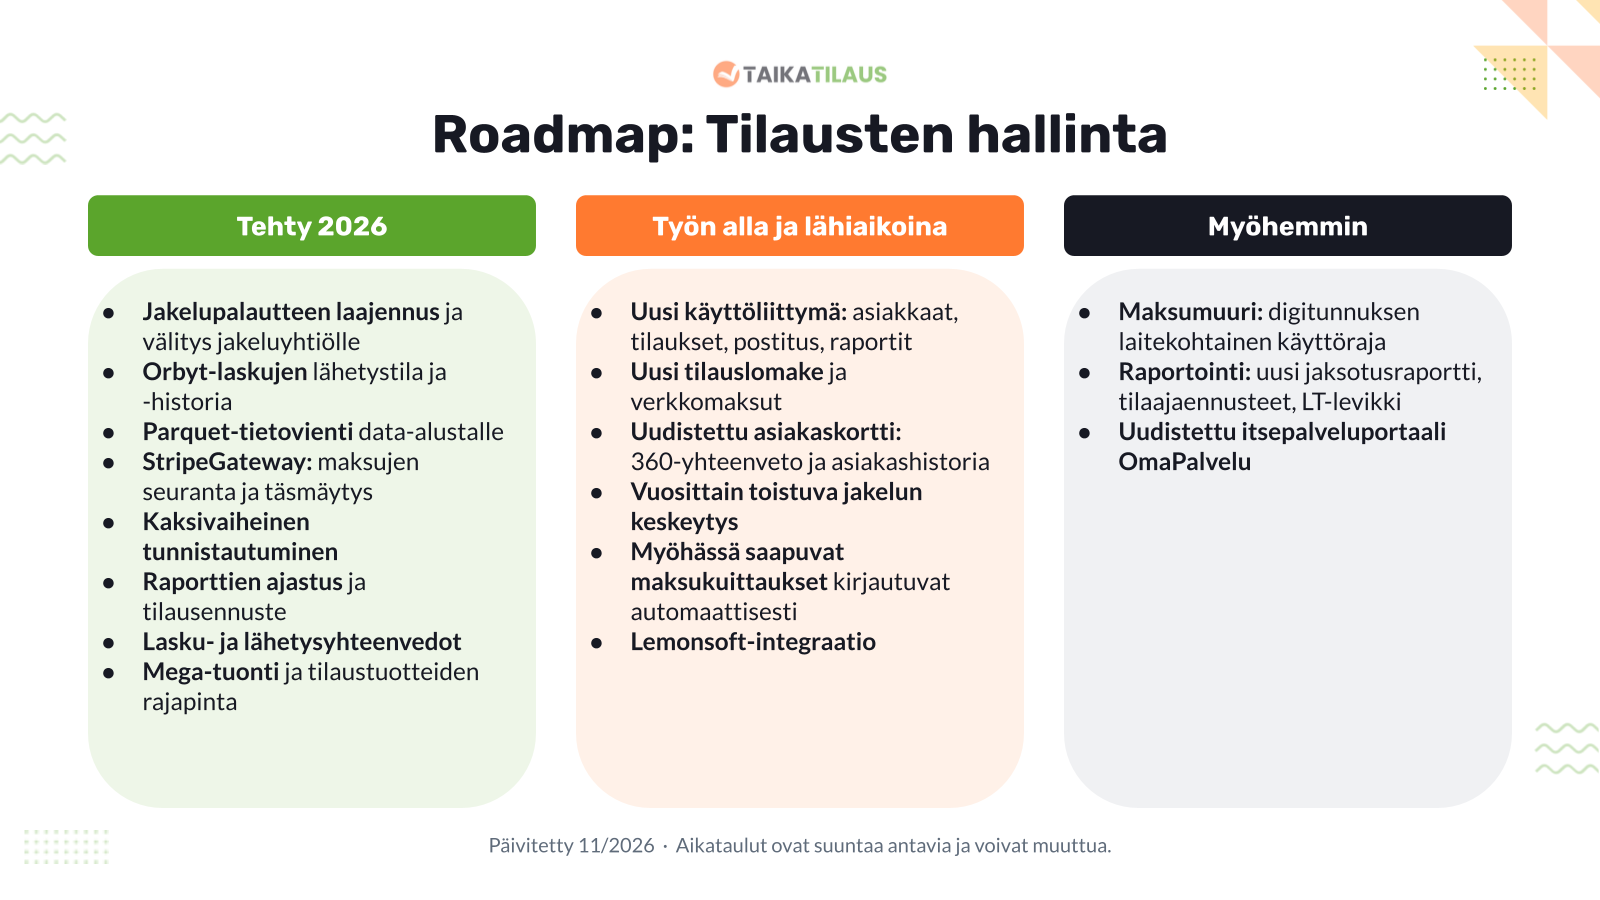
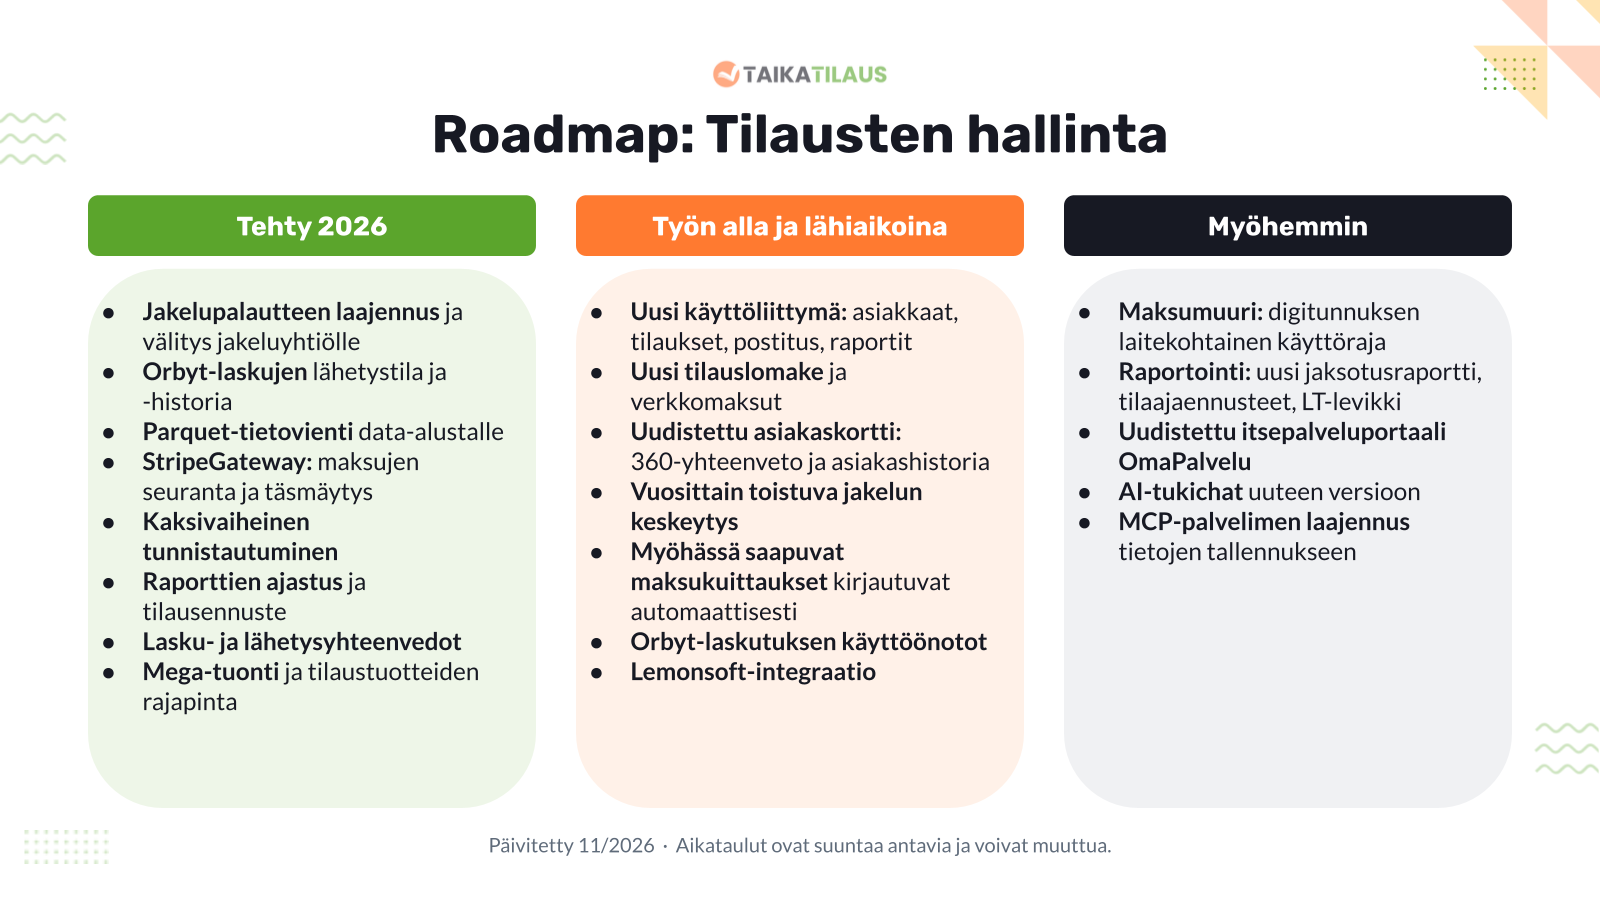
Roadmap: AI-tukichat, MCP-palvelimen laajennus ja Orbyt-käyttöönotot
AI-tukichat ja MCP-palvelimen laajennus tietojen tallennukseen
molempien osioiden Myöhemmin-kohtaan, Orbyt-laskutuksen käyttöönotot
tilausten hallinnan Työn alla -kohtaan. Kuvat päivitetty.

Changed region(s): [[0.6875, 0.5289, 0.875, 0.6222], [0.4062, 0.6844, 0.625, 0.7778]]

diff --git a/docs/versiotiedotteet/roadmap.md b/docs/versiotiedotteet/roadmap.md
@@ -39,6 +39,7 @@ Aikataulut ovat suuntaa antavia ja voivat muuttua. Toteutusjärjestykseen vaikut
 - **Uudistettu asiakaskortti**: asiakkaan 360-yhteenveto ja asiakashistoria.
 - **Vuosittain toistuva jakelun keskeytys** ja tilauksen pidennys keskeytysajalla.
 - **Myöhässä saapuvat verkkomaksujen kuittaukset** kirjautuvat laskulle automaattisesti.
+- **Orbyt-laskutuksen käyttöönotot**.
 - **Lemonsoft-integraatio**: tilaus- ja ilmoituslaskujen siirto Lemonsoftiin, josta laskut lähetetään ja niiden reskontra hoidetaan. Katso [kuvaus](/docs/ohjeet/integraatiot/lemonsoft).
 
 ### Myöhemmin
@@ -46,6 +47,8 @@ Aikataulut ovat suuntaa antavia ja voivat muuttua. Toteutusjärjestykseen vaikut
 - **Maksumuuri**: digitunnuksen laitekohtainen käyttöraja.
 - **Raportointi**: uusi jaksotusraportti, tilaajaennusteet, LT-levikki.
 - **Uudistettu itsepalveluportaali OmaPalvelu**.
+- **AI-tukichat** uuteen versioon.
+- **MCP-palvelimen laajennus** tietojen tallennukseen.
 
 ## Ilmoitusten hallinta
 
@@ -72,5 +75,7 @@ Aikataulut ovat suuntaa antavia ja voivat muuttua. Toteutusjärjestykseen vaikut
 ### Myöhemmin
 
 - **Julkaisukalenterien tuonti** CSV-tiedostosta.
+- **AI-tukichat** uuteen versioon.
+- **MCP-palvelimen laajennus** tietojen tallennukseen.
 
 Toteutuneet uudistukset kuvataan tarkemmin [versiotiedotteissa](/docs/category/versiotiedotteet).
